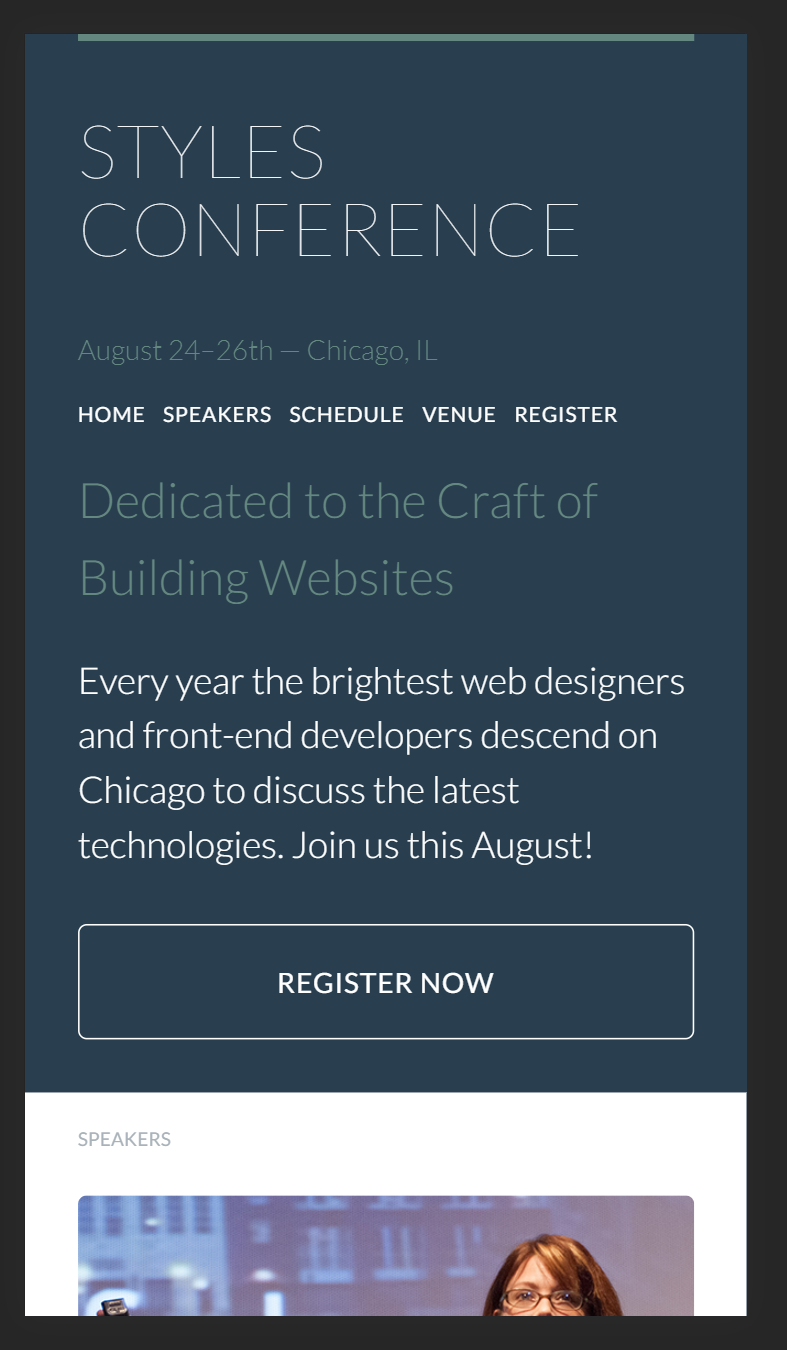
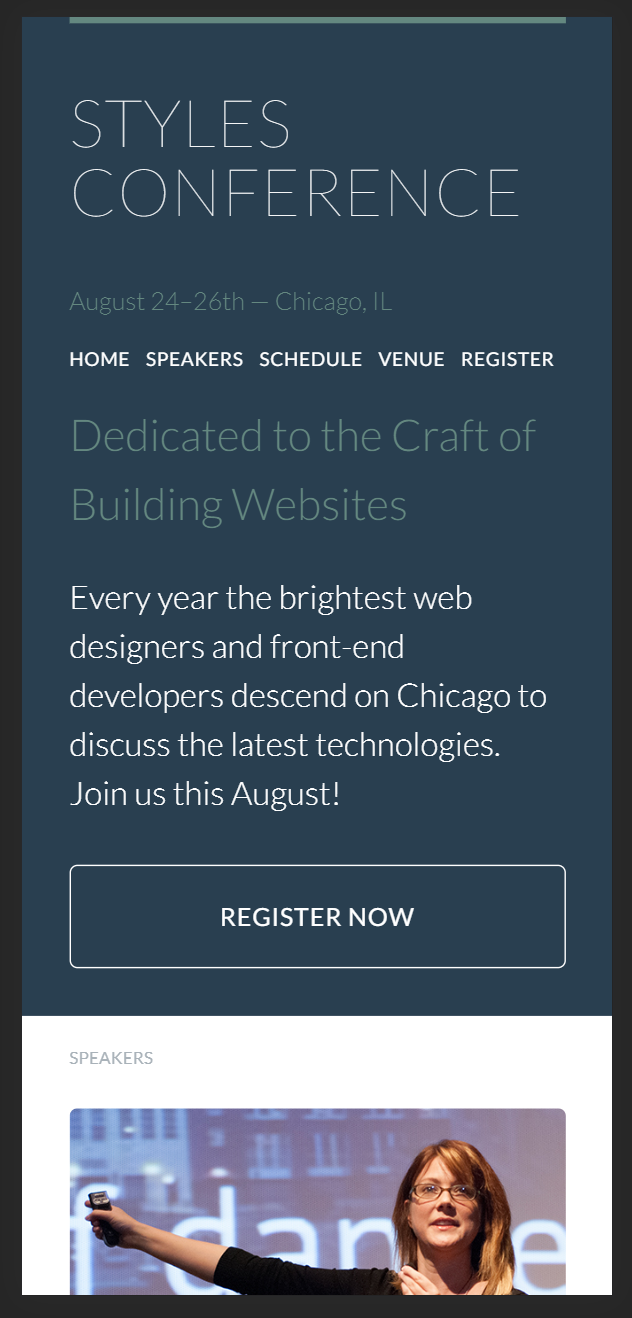
work prototype

diff --git a/index.html b/index.html
@@ -7,7 +7,8 @@
     <title>Matan Sanbira portfolio</title>
     <meta name="viewport" content="width=device-width, initial-scale=1">
     <link href="https://fonts.googleapis.com/css?family=Roboto:100,200,300,400,500,600,700,800" rel="stylesheet">
-    <link rel="stylesheet" type="text/css" media="screen" href="main.css" />
+    <link rel="stylesheet" type="text/css" media="screen" href="style/main.css" />
+    <link rel="stylesheet" type="text/css" media="screen" href="style/work.css" />
 </head>
 
 <body>
@@ -25,12 +26,12 @@
 
     <div class="curtain open hide"></div>
 
-    <div class="wrapper show" data-nav="#home">
+    <div class="wrapper" data-nav="#home">
 
         <div class="container">
             <section class="primary-hero">
                 <h1>Hi, I'm a musician turned web developer
-                    <br> And let me show you what I can do</h1>
+                    <br>let me show you what I can do</h1>
                 <div class="social-icons">
                     <a href="https://www.linkedin.com/in/matan-sanbira-695461109/" target="_blank">
                         <img src="assets/in.png" alt="linked-in">
@@ -52,8 +53,8 @@
                     <img src="*" alt="taskboard mockup">
                     <div class="color-overlay"></div>
                     <div class="text-overlay">
-                        <h2>TASKBOARD</h2>
-                        <h3>A one page app with lists, cards, and members</h3>
+                        <h2>Taskboard</h2>
+                        <h3>A single page app with lists, cards, and members</h3>
                     </div>
                 </div>
                 <div class="col-1-2">
@@ -61,7 +62,7 @@
                         <img src="*" alt="btn game mockup">
                         <div class="color-overlay"></div>
                         <div class="text-overlay">
-                            <h2>BTN GAME</h2>
+                            <h2>BTN game</h2>
                             <h3>A game where you push btns</h3>
                         </div>
                     </div>
@@ -69,8 +70,8 @@
                         <img src="*" alt="styles conference mockup">
                         <div class="color-overlay"></div>
                         <div class="text-overlay">
-                            <h2>STYLES CONFERENCE</h2>
-                            <h3>A responsive conference site with multiple features</h3>
+                            <h2>Styles conference</h2>
+                            <h3>A responsive site with multiple features</h3>
                         </div>
                     </div>
                 </div>
@@ -80,7 +81,48 @@
     </div>
 
     <div class="wrapper" data-nav="#work">
-        <h1>TEST work</h1>
+        <div class="work-taskboard">
+            <section class="work-header">
+                <div class="container">
+                    <img src="*" alt="taskboard mockup">
+                    <div class="headline">
+                        <h1>Taskboard</h1>
+                        <h3>A single page app with lists, cards, and members</h3>
+                    </div>
+                </div>
+            </section>
+            <div class="container">
+                <section class="work-hero">
+                    <div class="tldr">
+                        <h2>TL;DR</h2>
+                        <h3>Role: front-end developer</h3>
+                        <h3>Coded during
+                            <a href="http://www.createfuture.co.il/" target="_blank">
+                                <img class="inline-logo" src="assets/create-logo.jpg" alt="create">
+                            </a> bootcamp course</h3>
+                        <a href="https://msanbira.github.io/Taskboard/" class="view-project" target="_blank">
+                            <img src="assets/link-new-tab.png" alt="link new tab symbol">view live project
+                        </a>
+                    </div>
+                </section>
+
+                <section class="col-1-2 text-taskboard">
+                    <img src="assets/work/taskboard/taskboard1.png" alt="taskboard">
+                    <p>Taskboard was a project done in the "Create" Bootcamp whit emphasis on Bootstrap styling and JavaScript
+                        code in the form of Model–view–controller. The app features include titled lists, cards with text
+                        and relevant members, and a members section with their full names.</p>
+                </section>
+            </div>
+        </div>
+
+        <div class="work-styles-conference">
+
+        </div>
+
+        <div class="work-btn-game">
+
+        </div>
+
     </div>
 
     <div class="wrapper" data-nav="#about">

diff --git a/style/main.css b/style/main.css
@@ -63,6 +63,7 @@ body {
 
 .col-1-1, .col-1-2 {
     width: 100%;
+    /* change to 100% */
     height: 400px;
     margin: 0 auto 30px auto;
 }
@@ -77,7 +78,7 @@ body {
     position: absolute;
     top: 0;
     width: 100%;
-    height: 200vh;
+    height: 150vh;
     z-index: 50;
     background-color: white;
     transition: 1s;
@@ -97,12 +98,17 @@ body {
 }
 
 .hide {
-    display: none;
+    display: none !important;
 }
 
 .nav-btn.chosen {
     font-weight: bolder;
     transition: 2s;
+}
+
+a {
+    text-decoration: none;
+    color: black;
 }
 
 /* typography */
@@ -123,13 +129,16 @@ h3 {
     font-weight: 400;
 }
 
+p {
+    font-size: 18px;
+}
+
 /* header */
 
 .primary-header {
     position: fixed;
     top: 0;
     width: 100%;
-    background-color: rgba(255, 255, 255, 0.7);
     display: flex;
     flex-flow: row nowrap;
     justify-content: space-between;
@@ -141,8 +150,9 @@ h3 {
 }
 
 .fixed-shadow {
-    box-shadow: 0 3px 5px rgba(0, 0, 0, 0.3);
-    transition: 0.5s;
+    box-shadow: 0 3px 5px rgba(0, 0, 0, 0.1);
+    background-color: white;
+    transition: 0.2s;
 }
 
 .name {
@@ -222,7 +232,7 @@ h3 {
 }
 
 .col-1-1 .color-overlay {
-    width: 960px;
+    width: 100%;
 }
 
 .col-1-2 .color-overlay {
@@ -230,29 +240,28 @@ h3 {
 }
 
 .text-overlay h2 {
-    border-left: solid cyan 0.5px;
+    border-left: solid lightblue 0.5px;
     margin-bottom: 15px;
     padding-left: 15px;
 }
 
 .text-overlay h3 {
-    height: 54px;
     color: rgba(0, 0, 0, 0);
-    transition: 0.5s;
+    transition: 0.4s;
 }
 
 .text-overlay {
     position: absolute;
-    bottom: -40px;
+    bottom: -20px;
     left: 30px;
     right: 30px;
     z-index: 30;
-    transition: 1s 0.5s;
+    transition: 0.5s 0.2s;
 }
 
 .mockup:hover .color-overlay {
     background-color: rgba(0, 10, 200, 0.5);
-    transition: 1s;
+    transition: 0.5s;
 }
 
 .mockup:hover .text-overlay h3 {
@@ -262,7 +271,7 @@ h3 {
 
 .mockup:hover .text-overlay {
     bottom: 30px;
-    transition: 1s;
+    transition: 0.5s;
 }
 
 /* footer */
@@ -312,6 +321,8 @@ h3 {
     .col-1-2 {
         flex-flow: column;
         height: 800px;
+        justify-content: flex-start;
+        align-items: center;
     }
 
     .col-1-1 .color-overlay, .col-1-2 .color-overlay {

diff --git a/main.js b/main.js
@@ -5,6 +5,8 @@ const navBtns = document.querySelectorAll('.nav-btn');
 
 const curtain = document.querySelector('.curtain');
 
+const footer = document.querySelector('footer');
+
 function openCurtain() {
     curtain.classList.add('open');
     setTimeout(function () {curtain.classList.add('hide');}, 1000);
@@ -15,13 +17,13 @@ function closeCurtain() {
     setTimeout(function () {curtain.classList.remove('open');}, 0);
 }
 
-function changeLocationHash(eventTarget) {
-    const navTo = eventTarget.getAttribute('data-nav');
-    window.location.hash = navTo;
+function changeLocationHash(dataNav) {
+    window.location.hash = dataNav;
     window.onhashchange = showSection();
 }
 
 function showSection() {
+    footer.classList.add('hide');
     let hash = window.location.hash;
     for (let i = 0; i < navBtns.length; i++) {
         navBtns[i].classList.remove('chosen');
@@ -37,19 +39,26 @@ function showSection() {
                 sections[i].classList.add('show');
             }
         }
+        footer.classList.remove('hide');
         openCurtain();
     }, 1000,);
 }
 
 function init() {
     registerEvents();
+    if (window.location.hash != "") {
+        showSection();
+    }
+    else {
+        changeLocationHash('home');
+    }
 }
 
 function registerEvents() {
     document.addEventListener('click', (event) => {
 
         if (event.target.classList.contains('nav-btn')) {
-            changeLocationHash(event.target);
+            changeLocationHash(event.target.getAttribute('data-nav'));
         }
     });
 }

diff --git a/style/work.css b/style/work.css
@@ -1,0 +1,84 @@
+
+/* header*/
+
+.work-header {
+    width: 100%;
+    height: 400px;
+    background-color: gray;
+    margin-bottom: 50px;
+    margin-top: -160px;
+}
+
+.work-header .container {
+    height: 100%;
+    position: relative;
+}
+
+.headline {
+    position: absolute;
+    bottom: 30px;
+    left: 0;
+}
+
+.headline h1, .headline h3 {
+    text-align: left;
+}
+
+.inline-logo {
+    height: 13px;
+    padding: 0 5px;
+}
+
+/* tldr */
+
+.tldr {
+    width: 370px;
+    text-align: center;
+    padding: 15px;
+    margin: 0 auto 50px auto;
+}
+
+.view-project img {
+    display: block;
+    float: left;
+    height: 22px;
+}
+
+.view-project {
+    width: 250px;
+    display: block;
+    padding: 10px 15px;
+    border: solid lightblue 1px;
+    margin: 20px auto;
+    text-transform: uppercase;
+    text-align: center;
+}
+
+/* text */
+
+.text-taskboard img {
+    max-width: 465px;
+    max-height: 350px;
+    box-shadow: 3px 3px 5px rgba(0, 0, 0, 0.1);
+}
+
+.text-taskboard p {
+    padding: 0 30px;
+    line-height: 2;
+}
+
+@media (max-width: 960px) {
+    .text-taskboard p  {
+        padding: 30px;
+    }
+}
+
+@media (max-width: 500px) {
+    .tldr {
+        width: 100%;
+    }
+
+    .text-taskboard img {
+        width: 100%;
+    }
+}
